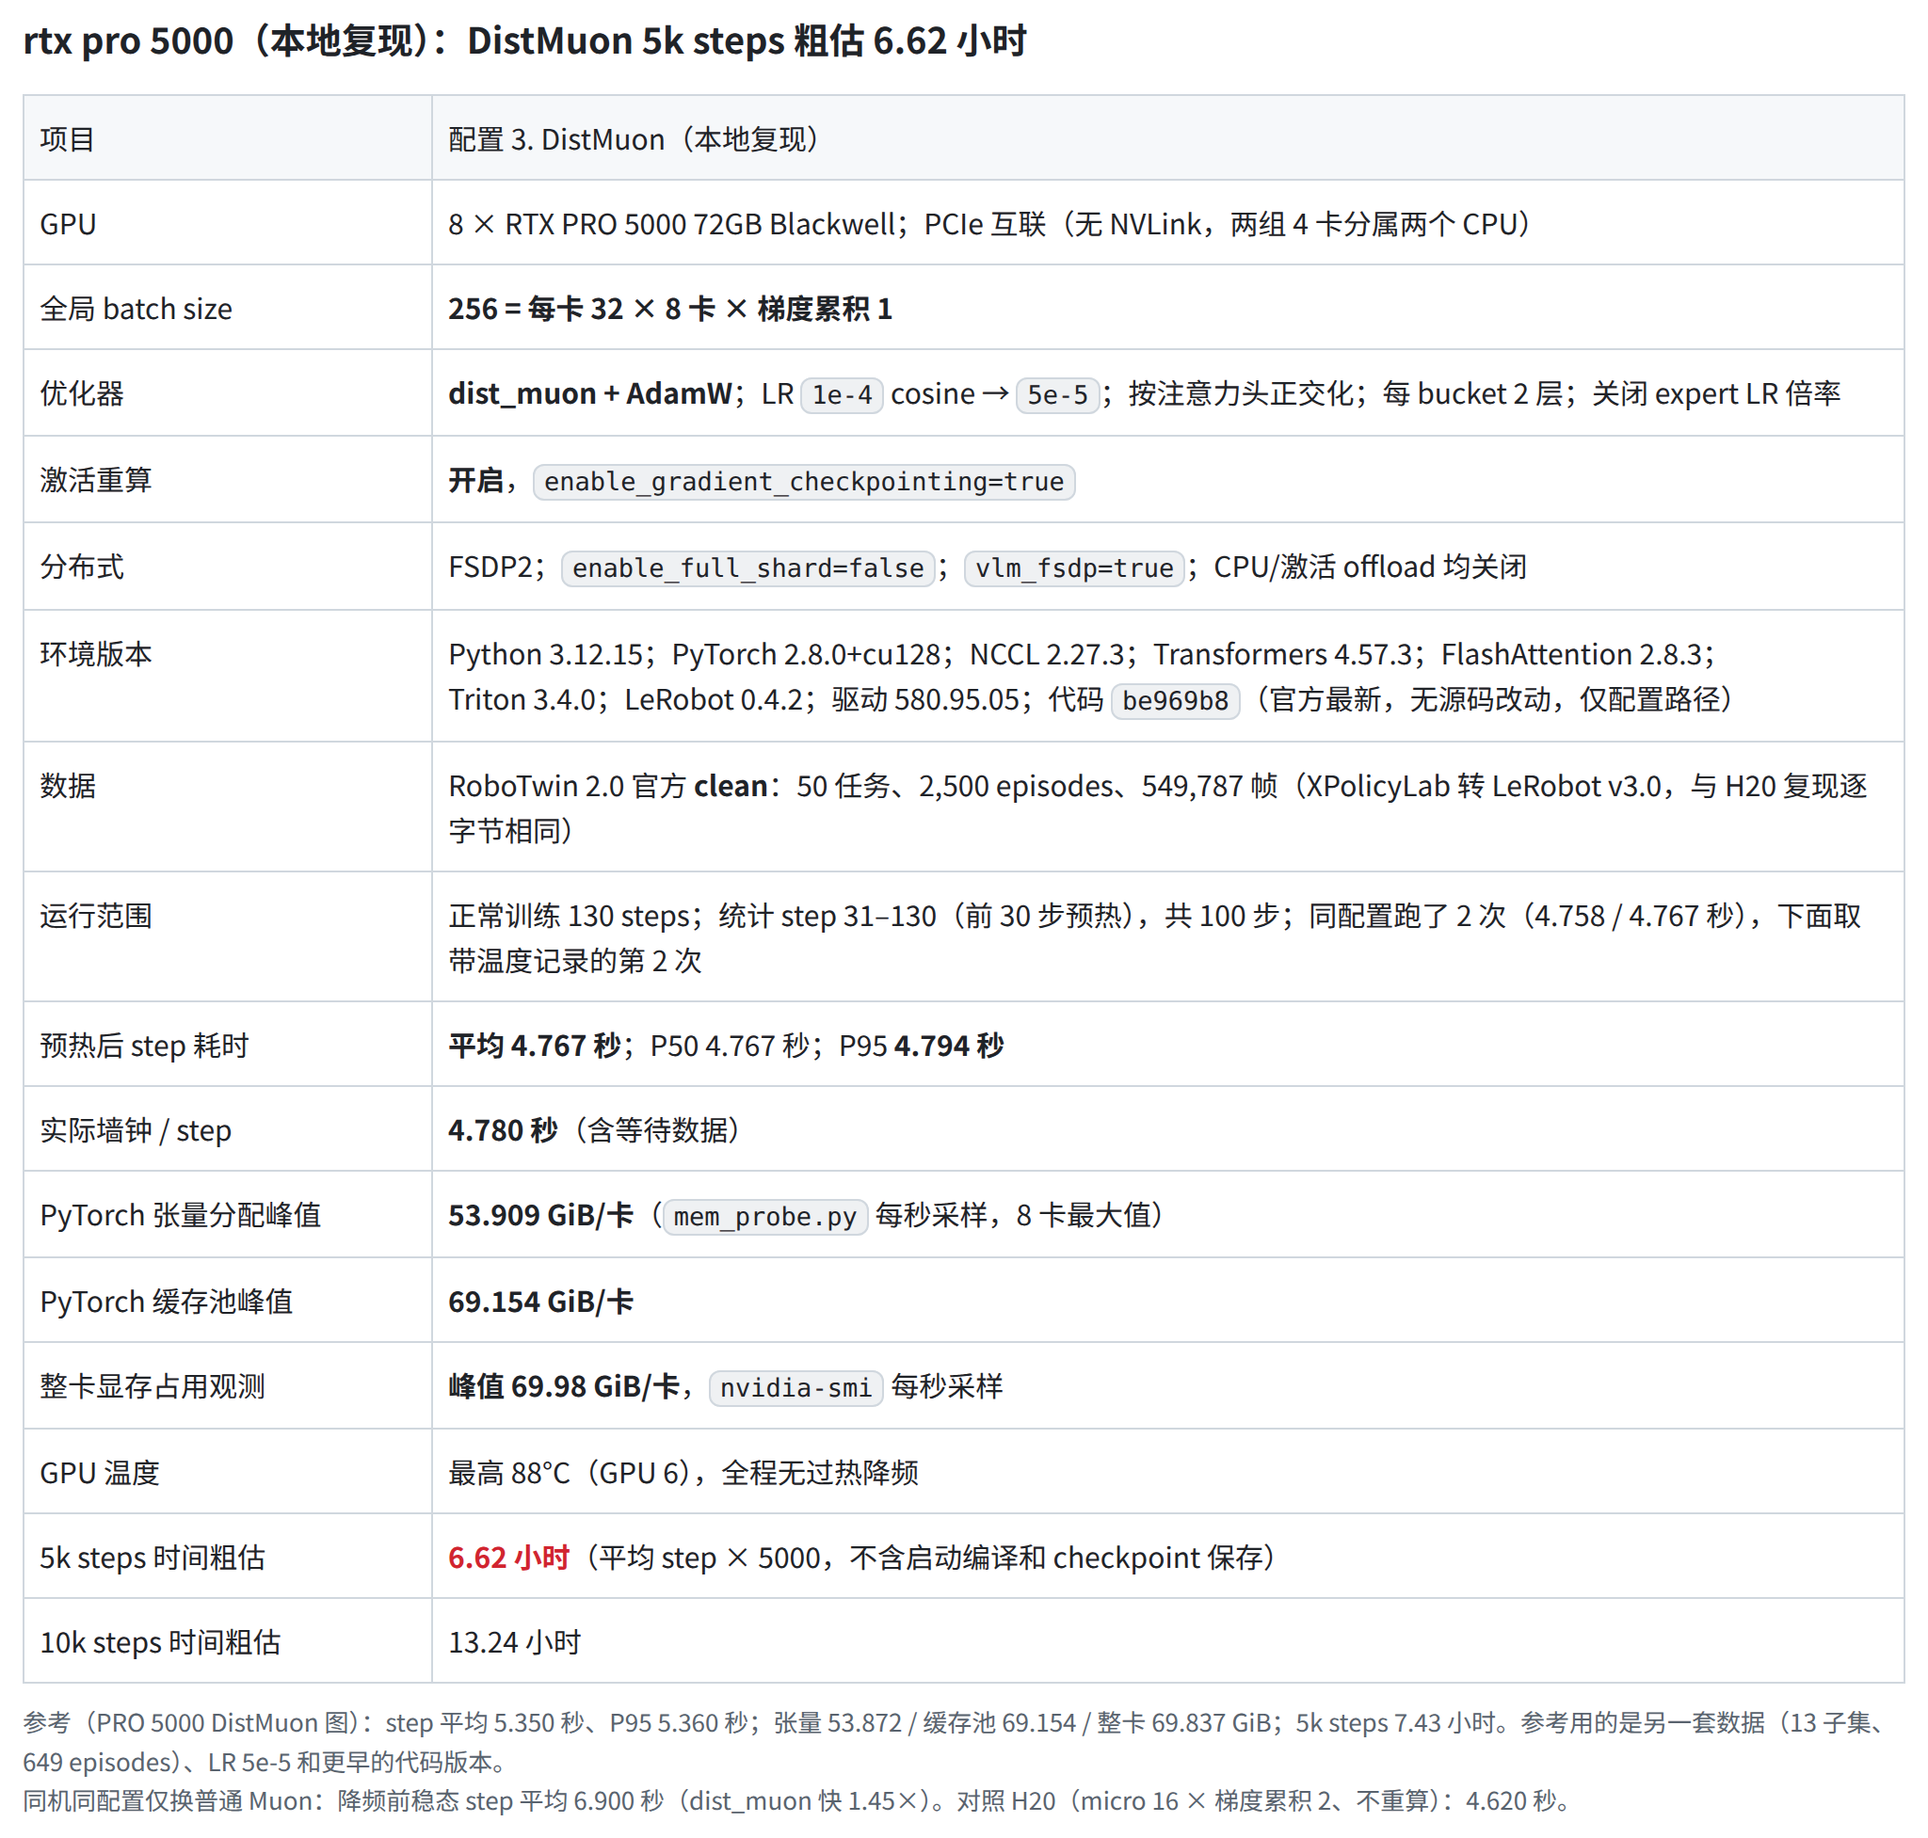
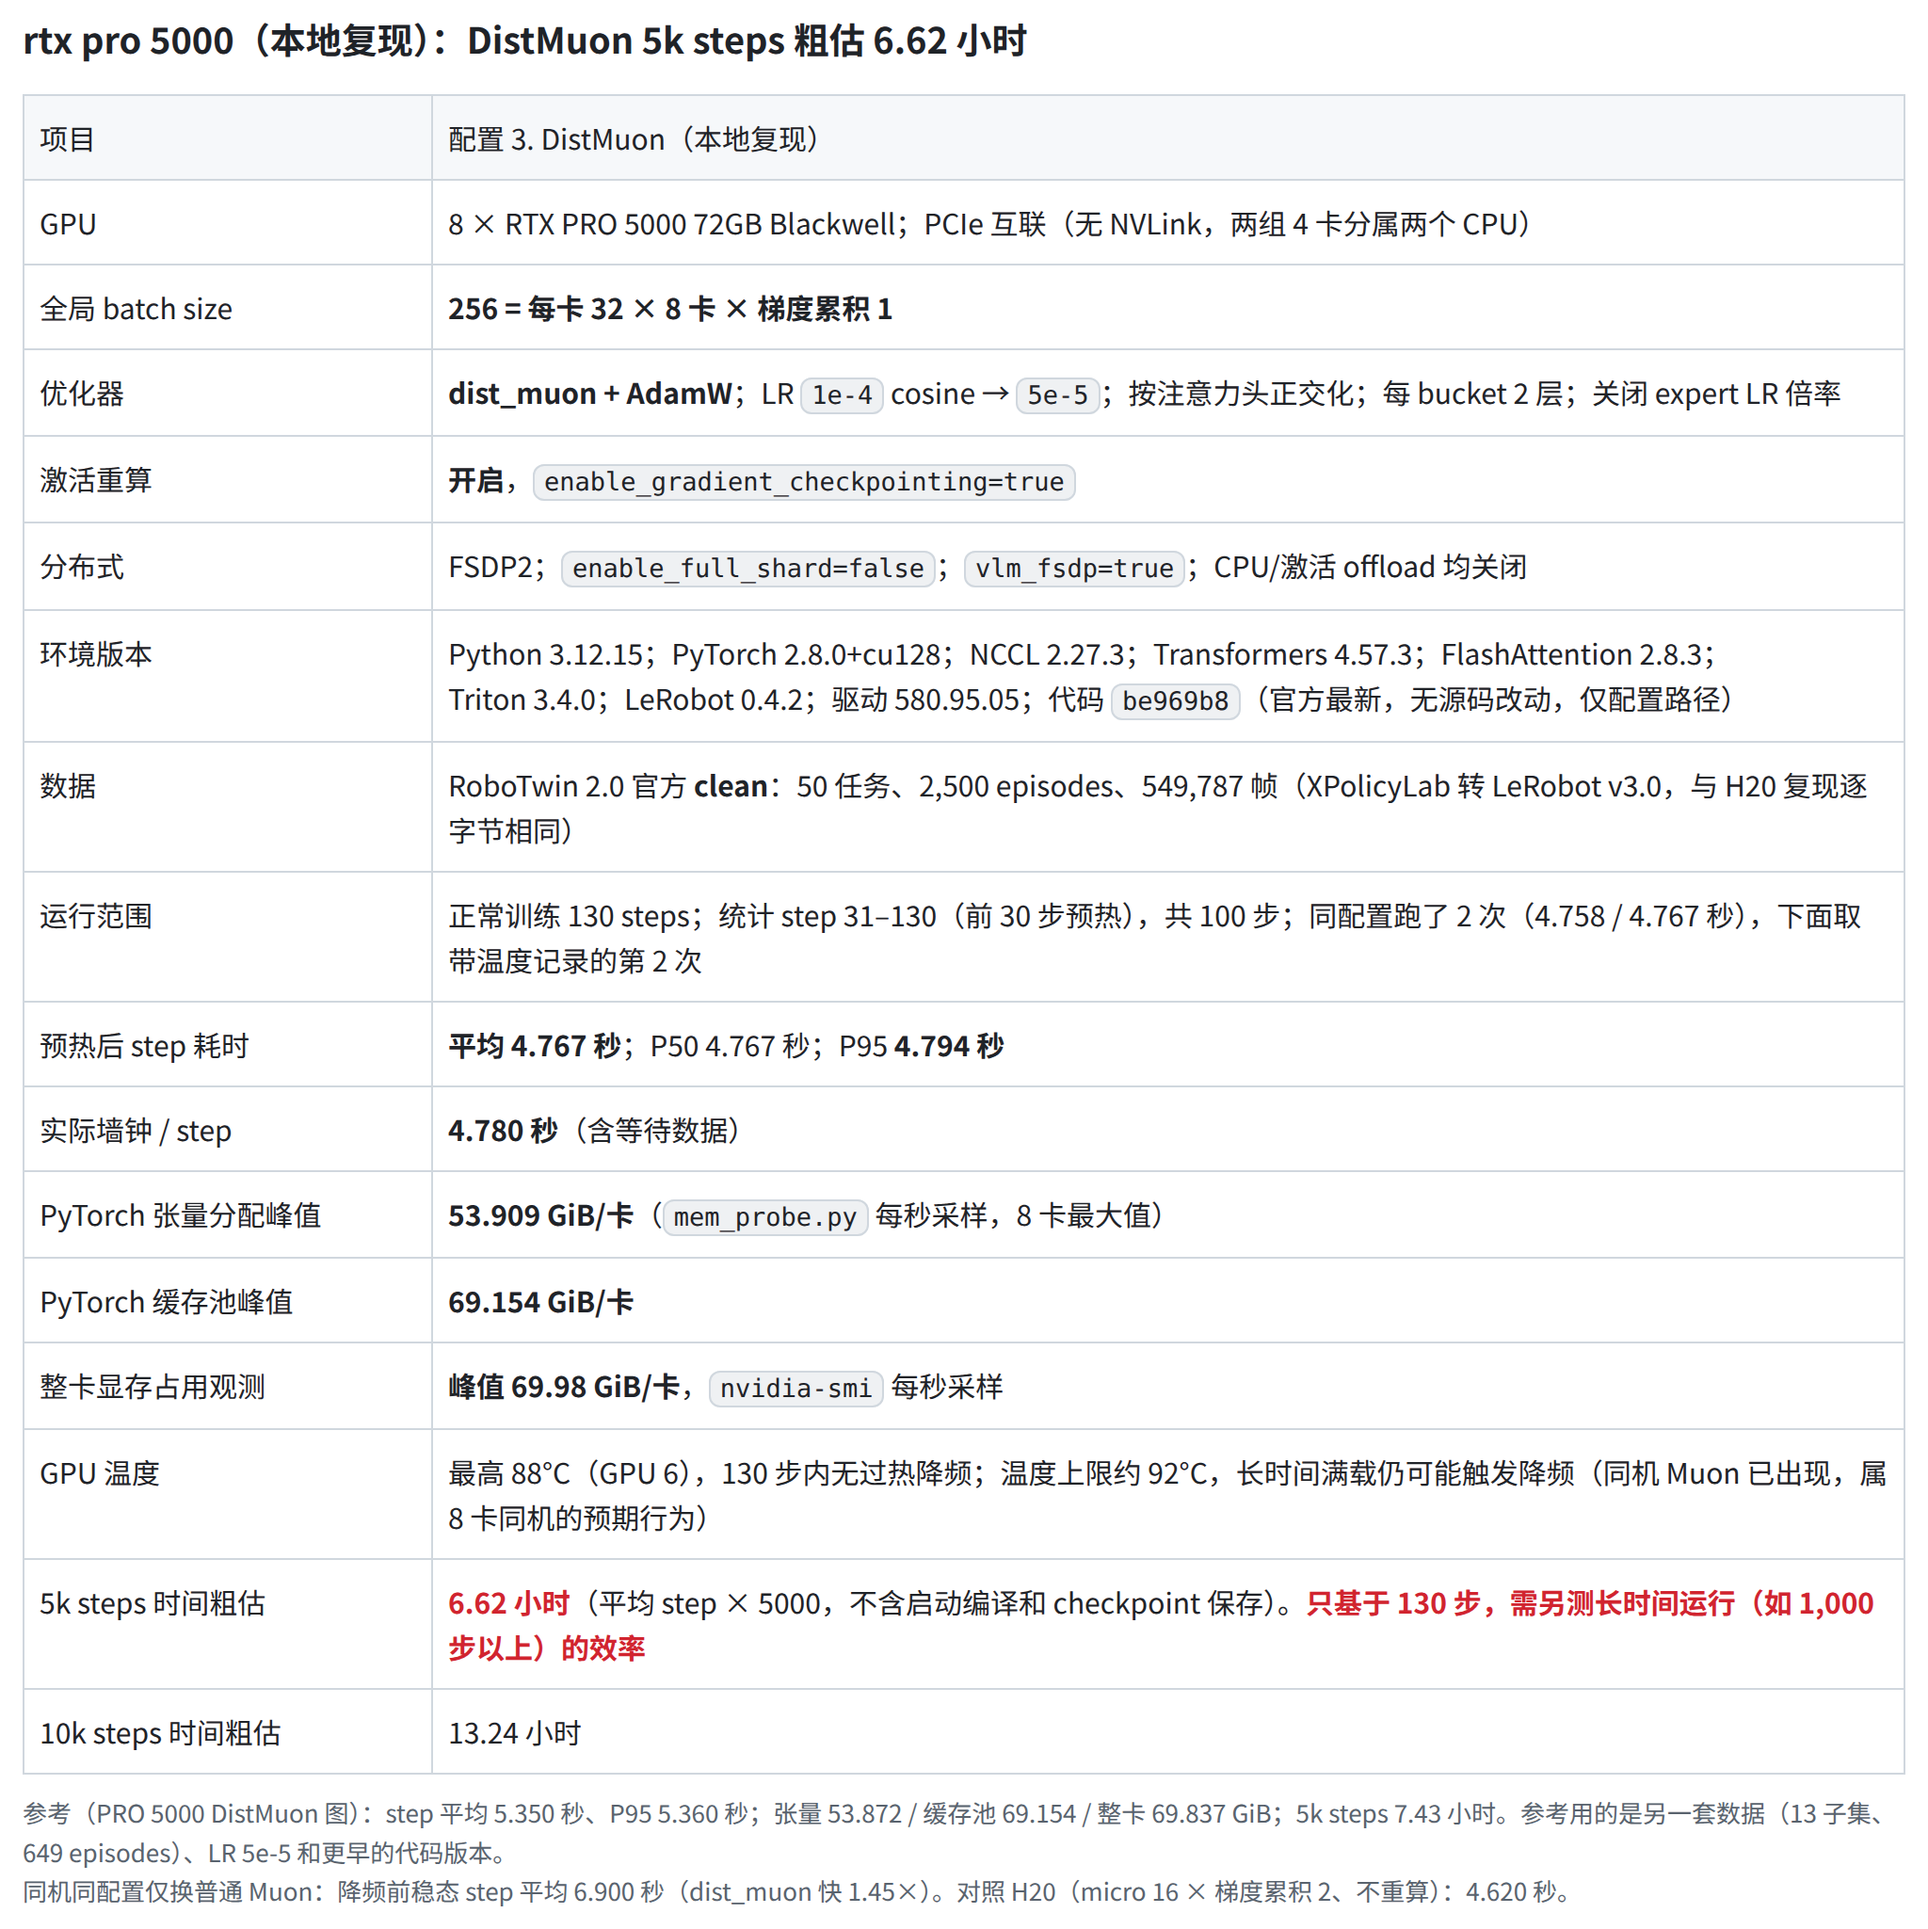
experiment: PRO 5000 thermal slowdown is expected behaviour; flag long-run timing as untested

diff --git a/experiment/single_node_repro/README.md b/experiment/single_node_repro/README.md
@@ -25,22 +25,23 @@
 
 | | Distributed Muon | Muon |
 |---|---:|---:|
-| 预热后 step 耗时（平均） | **4.767 s**（step 31–130） | **6.900 s**（step 31–120，见下方降频说明） |
+| 预热后 step 耗时（平均） | **4.767 s**（step 31–130） | **6.900 s**（step 31–120，降频前；见下方说明） |
 | P50 / P95 | 4.767 / 4.794 s | 6.902 / 6.932 s |
 | 墙钟 / step（含取数据） | 4.780 s | 6.911 s |
 | PyTorch 张量分配峰值 / 缓存池峰值 | 53.909 / 69.154 GiB | 53.352 / 63.834 GiB（全程 67.924） |
 | 整卡显存峰值（nvidia-smi） | 69.98 GiB | 64.62 GiB（全程 68.71） |
-| 5k 步粗估（平均 step × 5000） | 6.62 h | 9.58 h |
+| 5k 步粗估（平均 step × 5000，不含降频） | 6.62 h | 9.58 h |
 
 - 每组都跑了 2 次。DistMuon 两次分别是 4.758 s 和 4.767 s；Muon 降频前的稳态两次分别是 6.909 s 和 6.900 s。表中取的都是第 2 次，那一次带了温度记录。
 - Distributed Muon 比 Muon 快 **1.45×**。已有的 PRO 5000 参考数字是 5.350 / 7.044 s，即 1.32×，两边条件的差异见第 3 节。
 - 张量分配峰值 53.9 GiB 和缓存池峰值 69.154 GiB，与参考测量（53.872 / 69.154 GiB）几乎相同，说明显存行为一致。
-- **降频说明**：测试机的 GPU 6 散热明显比其他卡差：
-  - 空闲时其他卡约 30–40°C，GPU 6 有 80°C 以上。
-  - 跑 Muon 时，它在 step 109–121 左右升到 92–93°C，触发软件过热降频，所有卡的 step 耗时随之升到 12–23 s。两次运行都出现了这个现象。
-  - 因此 Muon 只统计降频前的 step 31–120。
-  - DistMuon 每步更短，GPU 6 最高 88°C，没有降频。
+- **降频说明**：长时间满载时，最热的卡会到温度上限并降频。这是预期行为，不是单卡故障：
+  - RTX PRO 5000 是 300 W 涡轮散热的工作站卡。`nvidia-smi -q -d TEMPERATURE` 显示温度上限约 92°C，到达后开始软件降频。
+  - 8 卡装在一台机器里时，风道最差位置的卡最先到温度上限，测试机上是 GPU 6。
+  - 跑 Muon 时，GPU 6 升到 92–93°C 后开始降频（第 1 次约 step 109 起，第 2 次约 step 126 起）。只要有一张卡降频，所有卡的 step 耗时都会被拖到 12–23 s。
+  - 因此 Muon 只统计降频前的 step 31–120。DistMuon 每步功耗较低，130 步内最高 88°C，没有降频。
   - `summarize_run.py` 会根据 `smi.csv` 自动标出发生过热降频的 GPU。
+- **还需要测长时间运行的效率**：上表的 5k 步粗估只基于 130 步，而且是不降频时的速度。长时间训练时温度会持续处于上限附近，Muon 和 DistMuon 都可能反复降频。实际用时需要另跑 1,000 步以上，统计包含降频在内的平均 step 耗时。
 - 测试环境：驱动 580.95.05；PyTorch 2.8.0+cu128，NCCL 2.27.3，Transformers 4.57.3，flash-attn 2.8.3，Triton 3.4.0。8 张卡之间只走 PCIe，没有 NVLink，GPU 0–3 和 GPU 4–7 分别挂在两个 CPU 下。数据与 H20 上的逐字节相同。
 
 ### 图
@@ -174,7 +175,7 @@ MAX_STEPS=130 TIMING_ONLY=1 OPTIMIZER=muon      bash experiment/single_node_repr
   - 缓存池峰值：PyTorch 向驱动申请的总量，包含碎片。
   - nvidia-smi 整卡占用：在缓存池之外，还包括 CUDA context 和 NCCL 缓冲。
   - 前两项来自 `mem_rank*.csv`，最后一项来自 `smi.csv`。
-- **过热降频**：只要有一张卡降频，所有卡的每一步都会被它拖慢。如果统计结果里出现 `thermal throttling on GPU ...`，说明这段 step 耗时不可信，需要缩小统计区间（`--last`），或者先解决散热问题再测。
+- **过热降频**：只要有一张卡降频，所有卡的每一步都会被它拖慢。如果统计结果里出现 `thermal throttling on GPU ...`，说明这段 step 耗时混入了降频。测"不降频时的速度"要缩小统计区间（`--last`）；评估长时间训练的实际用时，则应该把降频算进去，跑更多步再统计。
 
 ### 抓 timeline（profiling）
 
